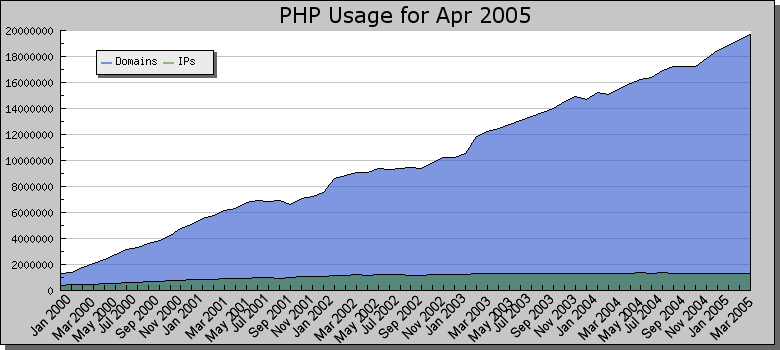
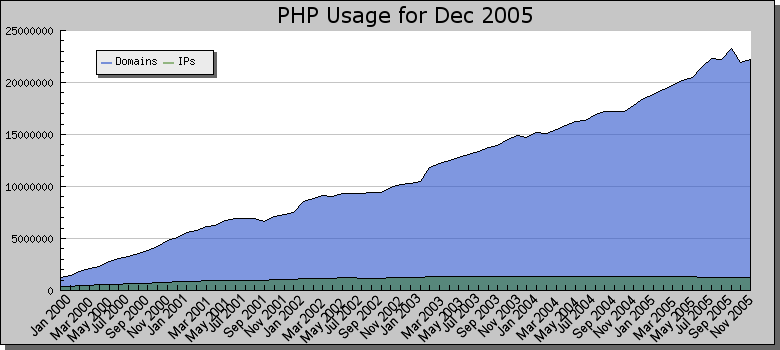
Fix numbers

diff --git a/usage.php b/usage.php
@@ -5,7 +5,7 @@ include_once $_SERVER['DOCUMENT_ROOT'] . '/include/prepend.inc';
 site_header("PHP Usage Stats");
 ?>
 
-<h1>Usage Stats for October 2005</h1>
+<h1>Usage Stats for December 2005</h1>
 
 <p>
 PHP: 22,172,983 Domains, 1,277,375 IP Addresses<br>
